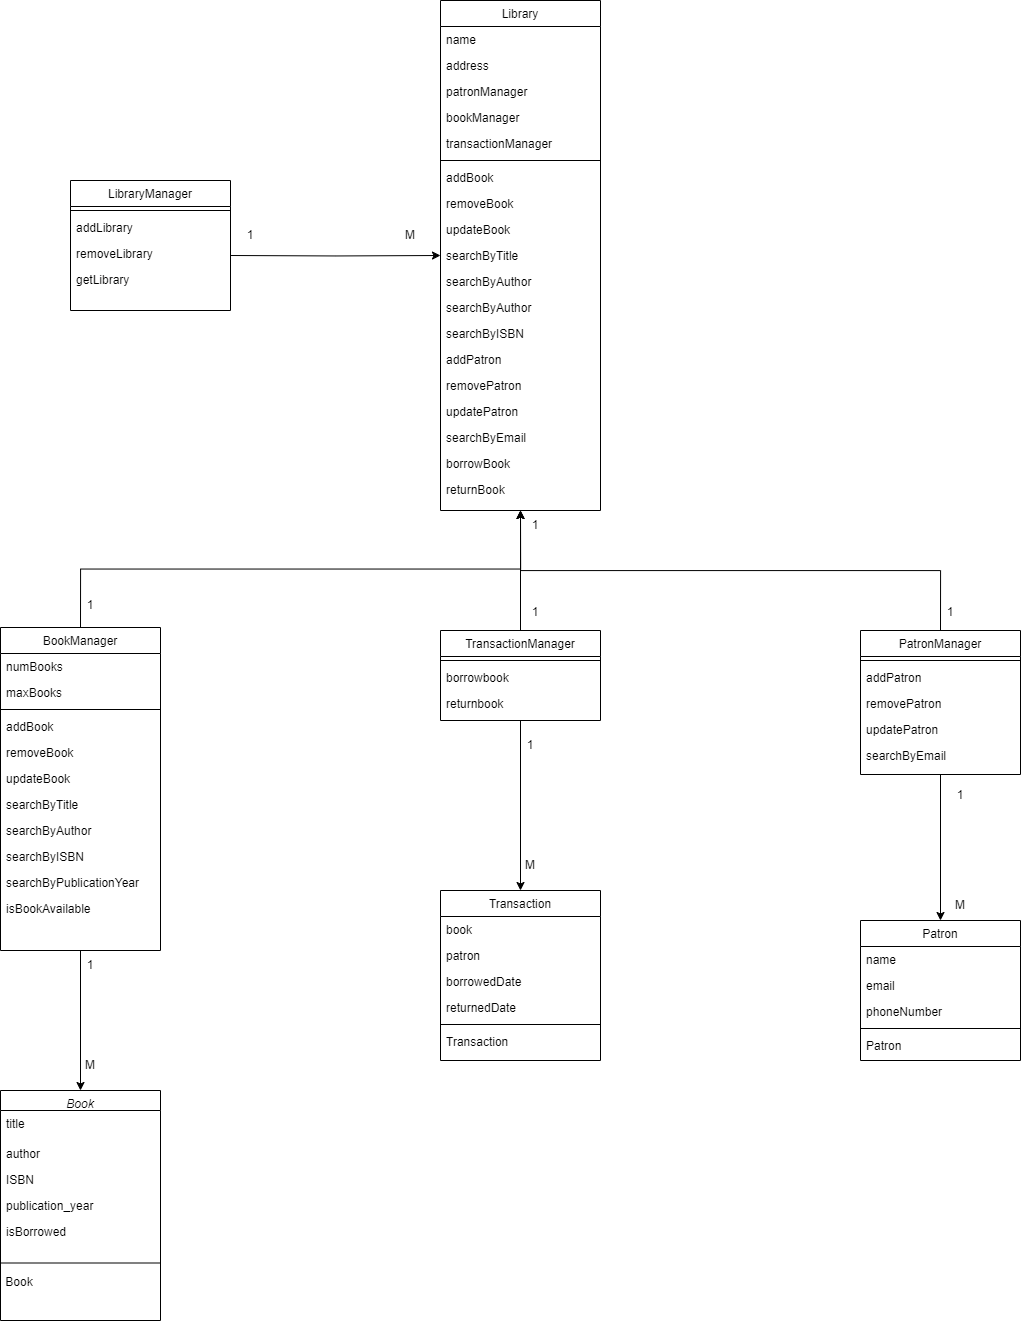
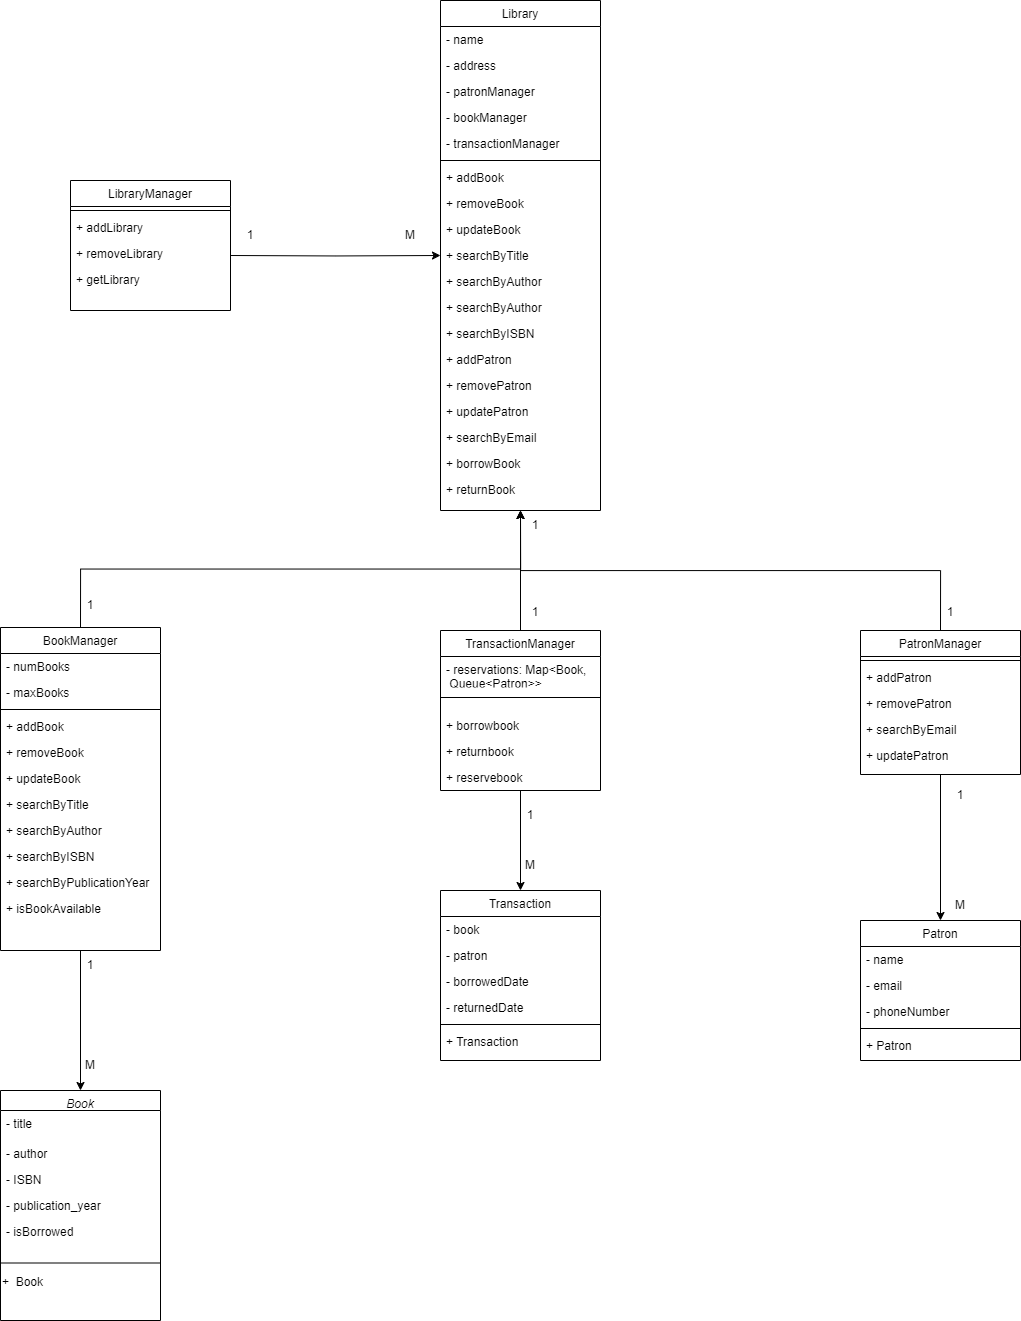
Allow patron to reserve book.

diff --git a/src/TransactionManagement/TransactionManager.java b/src/TransactionManagement/TransactionManager.java
@@ -3,24 +3,37 @@ package TransactionManagement;
 import BookManagement.Book;
 import PatronManagement.Patron;
 
-import java.util.ArrayList;
-import java.util.Date;
-import java.util.List;
+import java.util.*;
 
 public class TransactionManager {
     // Contain the list of borrowing history
     private List<Transaction> borrowingHistory;
+    private Map<Book, Queue<Patron>> reservations;
 
     // Constructor
     public TransactionManager(){
         this.borrowingHistory = new ArrayList<>();
+        this.reservations = new HashMap<>();
     }
 
     // Add Transaction to the borrowingHistory list
     public void borrowBook(Book book, Patron patron){
+        if (book == null || patron == null) {
+            System.out.println("Book or Patron is null");
+            return;
+        }
         if(book.getIsBorrowed()){
             System.out.println("Book is already borrowed");
             return;
+        }
+        if (reservations.containsKey(book) && !reservations.get(book).isEmpty()) {
+            Queue<Patron> reservationQueue = reservations.get(book);
+            if (!reservationQueue.peek().equals(patron)) {
+                System.out.println("Book is reserved by another patron");
+                return;
+            } else {
+                reservationQueue.poll(); // Remove the patron from the reservation queue
+            }
         }
         Transaction record = new Transaction(book, patron, new Date());
         borrowingHistory.add(record);
@@ -34,7 +47,19 @@ public class TransactionManager {
                 book.setIsBorrowed(false);
             }
         }
+
+        if (reservations.containsKey(book) && !reservations.get(book).isEmpty()) {
+            Patron nextPatron = reservations.get(book).poll();
+            System.out.println("Book is now reserved for " + nextPatron.getEmail());
+        }
     }
+
+    public void reserveBook(Book book, Patron patron) {
+        reservations.putIfAbsent(book, new LinkedList<>());
+        reservations.get(book).add(patron);
+        System.out.println("Book reserved successfully for " + patron.getEmail());
+    }
+
     // Getters and Setters
     public List<Transaction> getBorrowingHistory(){
         return borrowingHistory;

diff --git a/src/LibraryManagement/Library.java b/src/LibraryManagement/Library.java
@@ -102,6 +102,14 @@ public class Library {
         }
     }
 
+    public void reserveBook(String patronEmail, String ISBN) {
+        Patron patron = patronManager.searchByEmail(patronEmail);
+        Book book = bookManager.searchByISBN(ISBN);
+        if (patron != null && book != null) {
+            transactionManager.reserveBook(book, patron);
+        }
+    }
+
     public void display() {
         System.out.println("Name: " + name);
         System.out.println("Address: " + address);
